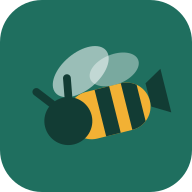
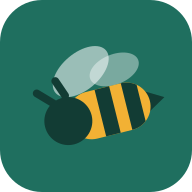
fix: stop Node types from leaking into browser type-checking, tidy the stinger and antennae
frontend/tsconfig.app.json's `types` had grown a "node" entry to satisfy
tests/pwa-icons.test.ts's `node:fs` import, but `types` is program-wide, so
Node globals (process, Buffer, ...) became visible to every file under
src/**/*.ts and *.svelte — a guarantee traded away for an icon list.

Fix: move frontend/src/pwa-icons.ts to frontend/scripts/pwa-icons.ts (it is
build/Node-facing data, never imported by browser runtime code, only by
vite.config.ts and the test) and move tests/pwa-icons.test.ts specifically
out of tsconfig.app.json's include into tsconfig.node.json's include, which
already carries types: ["node"]. Moving pwa-icons.ts alone does not fix the
leak: the test's own `import ... from 'node:fs'` is the actual forcing
function, confirmed by reverting just the types array and observing
svelte-check fail only on that line. Scoped the include move to this one
test file rather than all of tests/**/*.ts to avoid forcing explicit .ts
extensions (required under nodenext) onto the 13 other test files' relative
imports, which don't need Node types at all.

Also: the stinger read as a tail fin (a 15-unit-tall triangle against a
16-unit body) and one antenna crossed a wing. Replaced both paths with the
smaller, better-aimed ones requested after seeing the icon at full size, and
re-ran frontend/scripts/render-icons.sh to regenerate the committed PNGs so
they match.

Claude-Session: https://claude.ai/code/session_0147exsth5YQrtaA7Ces2H6y

diff --git a/frontend/vite.config.ts b/frontend/vite.config.ts
@@ -3,7 +3,7 @@ import { defineConfig } from 'vite';
 import { svelte } from '@sveltejs/vite-plugin-svelte';
 import { VitePWA } from 'vite-plugin-pwa';
 import { readFileSync } from 'node:fs';
-import { pwaIcons } from './src/pwa-icons.ts';
+import { pwaIcons } from './scripts/pwa-icons.ts';
 
 const pkg = JSON.parse(readFileSync(new URL('./package.json', import.meta.url), 'utf8')) as { version: string };
 

diff --git a/frontend/tests/pwa-icons.test.ts b/frontend/tests/pwa-icons.test.ts
@@ -1,6 +1,6 @@
 import { describe, expect, it } from 'vitest';
 import { existsSync, readFileSync } from 'node:fs';
-import { pwaIcons } from '../src/pwa-icons';
+import { pwaIcons } from '../scripts/pwa-icons.ts';
 
 const publicDir = new URL('../public/', import.meta.url);
 
